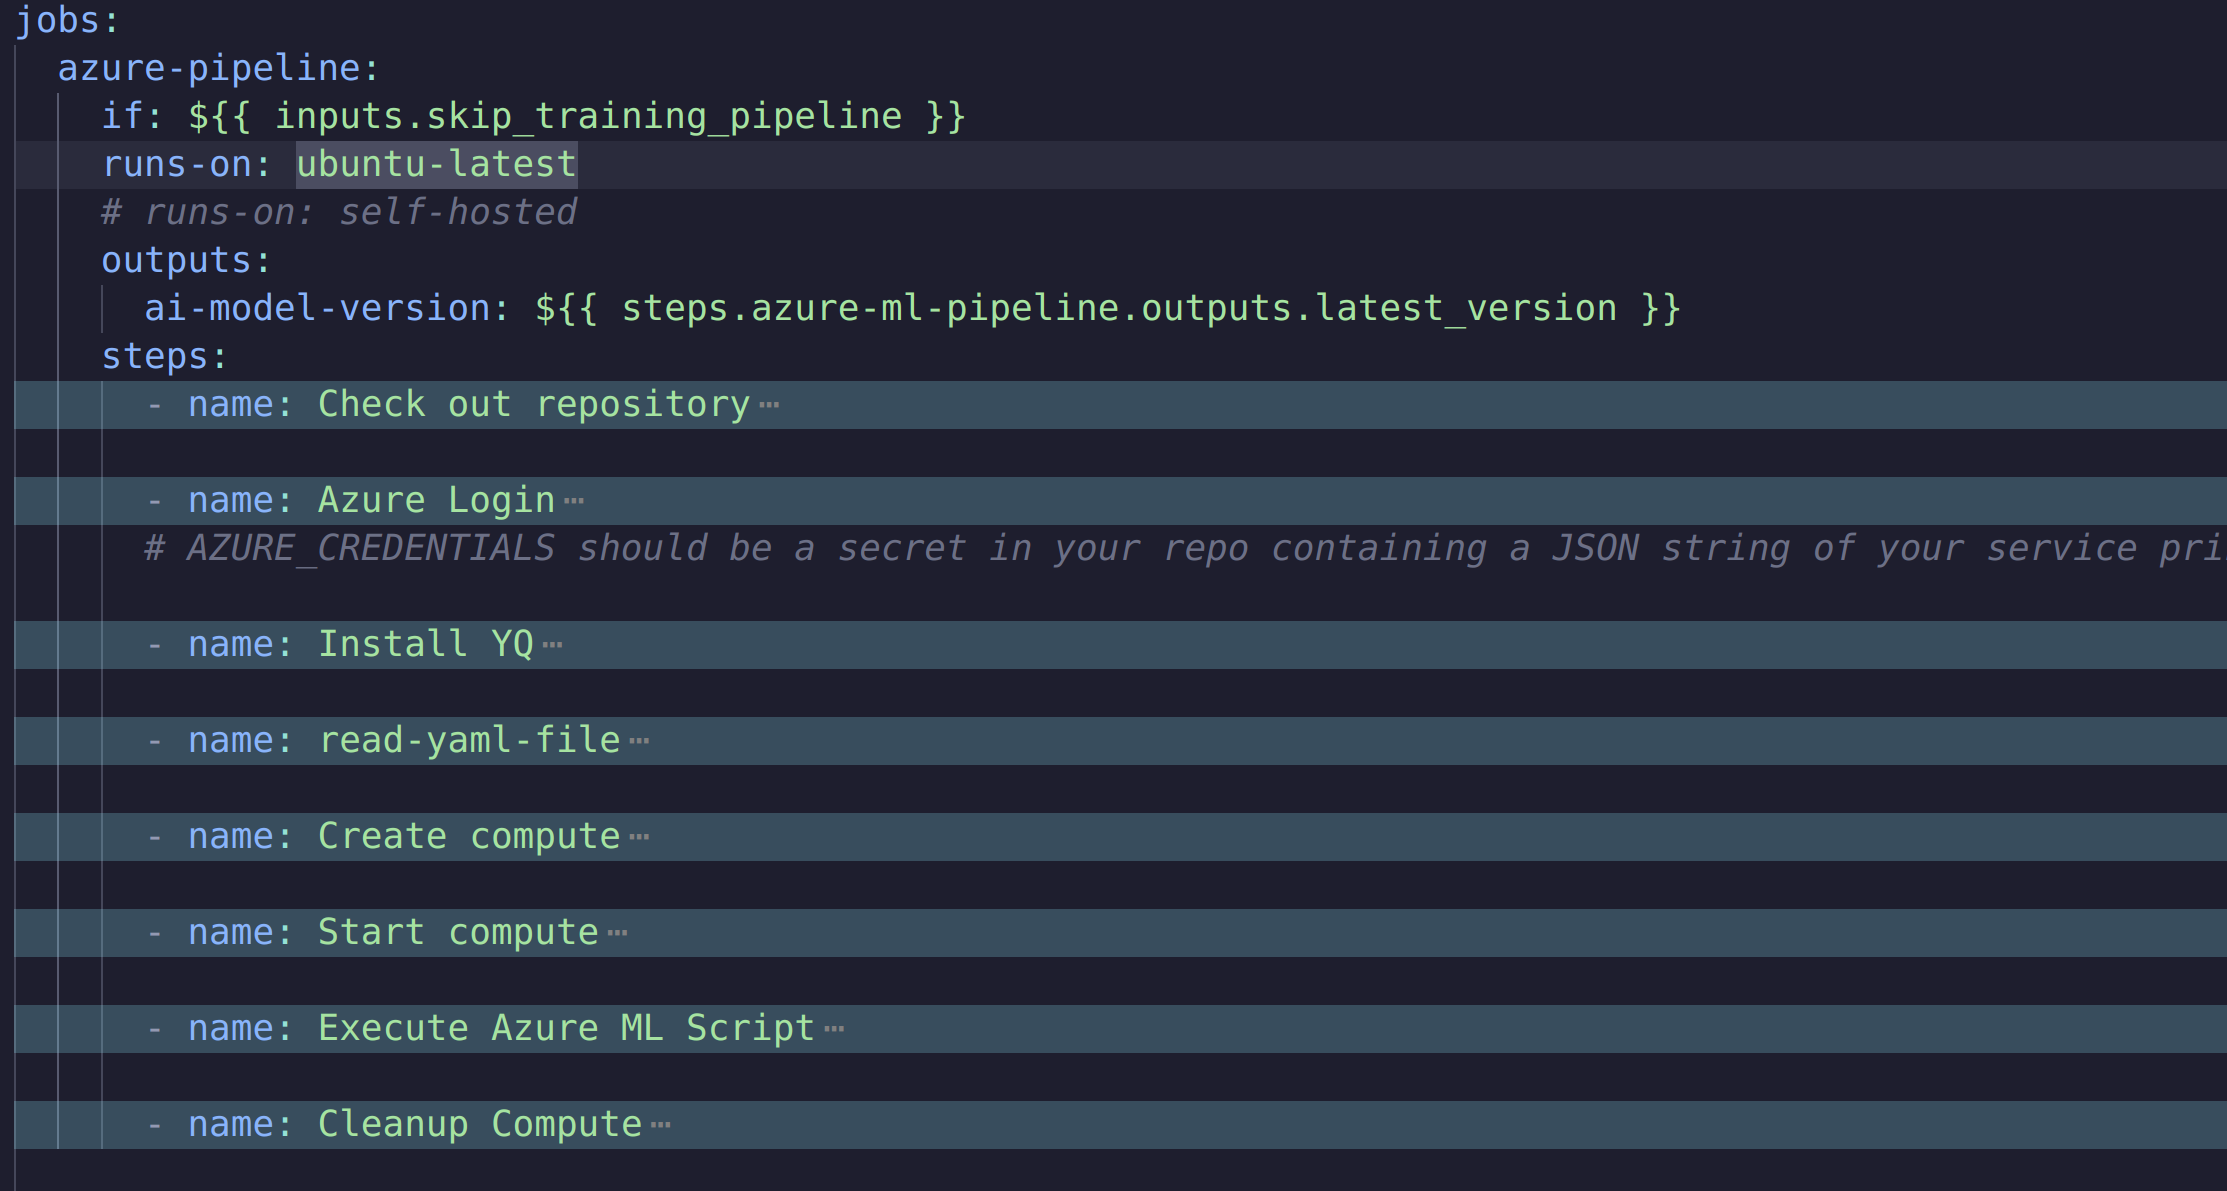
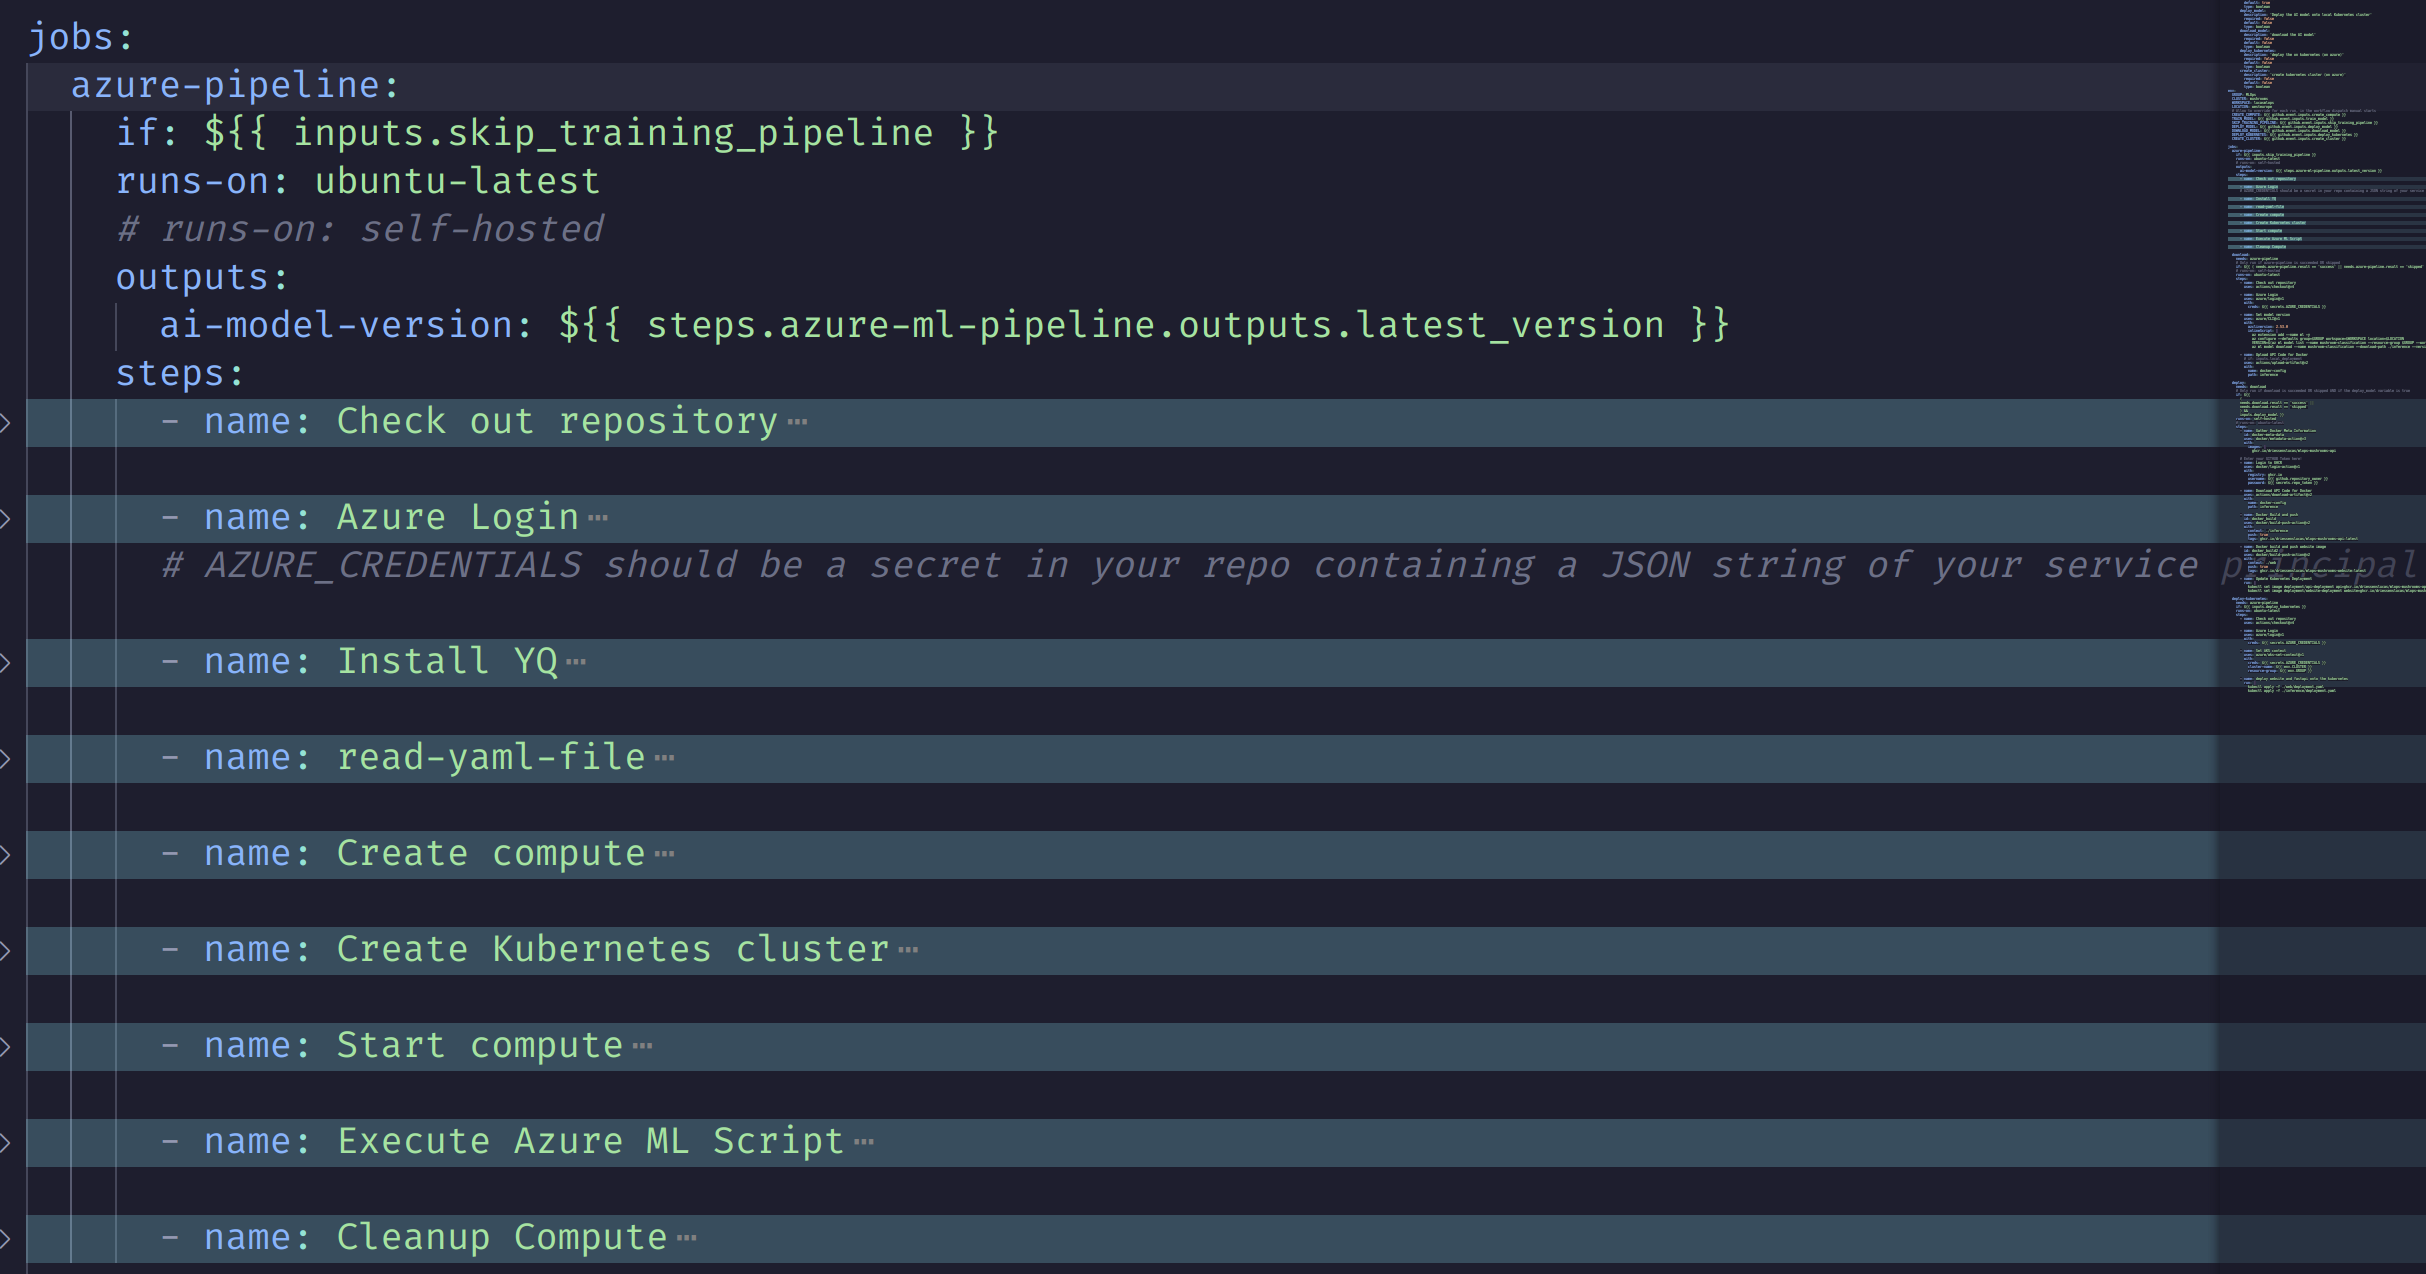
final-fixes

diff --git a/readme.md b/readme.md
@@ -39,6 +39,7 @@
     - [5.4 Web App](#54-web-app)
     - [5.6 Gradio](#56-gradio)
     - [5.7 deployment on azure kubernetes !!! bonus, not necessary](#57-deployment-on-azure-kubernetes--bonus-not-necessary)
+      - [This step was in my eyes the whole point of this assignment, creating a full pipeline from data to webapp, that is fully automated and deployed on a kubernetes cluster](#this-step-was-in-my-eyes-the-whole-point-of-this-assignment-creating-a-full-pipeline-from-data-to-webapp-that-is-fully-automated-and-deployed-on-a-kubernetes-cluster)
   - [6. Integration with Existing Software](#6-integration-with-existing-software)
     - [6.1 fake company](#61-fake-company)
     - [6.1.1 integration in an existing software system](#611-integration-in-an-existing-software-system)
@@ -78,6 +79,8 @@ The dataset I used:
 #### 2.1.1 Data upload
 
 I manually uploaded the data onto azure ml for this project.
+
+<img src="./images/created_data.png" alt="dataset" width="400"/>
 
 ### 2.2 AI Model Selection
 
@@ -478,6 +481,8 @@ async def gradio():
 
 ### 5.7 deployment on azure kubernetes !!! bonus, not necessary
 
+#### This step was in my eyes the whole point of this assignment, creating a full pipeline from data to webapp, that is fully automated and deployed on a kubernetes cluster
+
 Kubernetes Cluster Setup
 
 **note:this has been barely tested since I'm limited in public ip's that azure will give me**
@@ -530,8 +535,8 @@ deploy-kubernetes:
 
       - name: deploy website and fastapi onto the kubernetes
         run: |
-          kubectl apply -f ./web/deployment.yaml --overwrite=true
-          kubectl apply -f ./inference/deployment.yaml --overwrite=true
+          kubectl apply -f ./web/deployment.yaml
+          kubectl apply -f ./inference/deployment.yaml
 ```
 
 - to ensure that the api and website are kept up-to-date I added a 'rolling-update' strategy to the deploy step (where the images get reuploaded to the github packages repo)
@@ -544,6 +549,12 @@ deploy-kubernetes:
           kubectl set image deployment/website-deployment website=ghcr.io/driessenslucas/mlops-mushrooms-website:latest
 
 ```
+
+- proof of working (look at the ip's):
+
+<img src="./images/azure-clusters.png" alt="services" width="800"/>
+<img src="./images/webapp-on-azure.png" alt="website" width="800"/>
+<img src="./images/fastapi-on-azure.png" alt="api" width="800"/>
 
 ## 6. Integration with Existing Software
 
@@ -588,7 +599,7 @@ It triggers a pipeline that goes the whole process of data extraction, preproces
 <p>here you can set the environment variables for the pipeline, chosing if you want to       create_compute, train_model, skip_training_pipeline, download_model or deploy_model
 these allow for a more flexible pipeline, where you can choose to skip certain steps.
 since you dont need to recreate the compute or train the model each time you want to redeploy it.</p>
-<img src="./images/pipeline_start.png" alt="github actions" width="800"/>
+<img src="./images/pipline-start.png" alt="github actions" width="800"/>
 
 #### jobs
 
